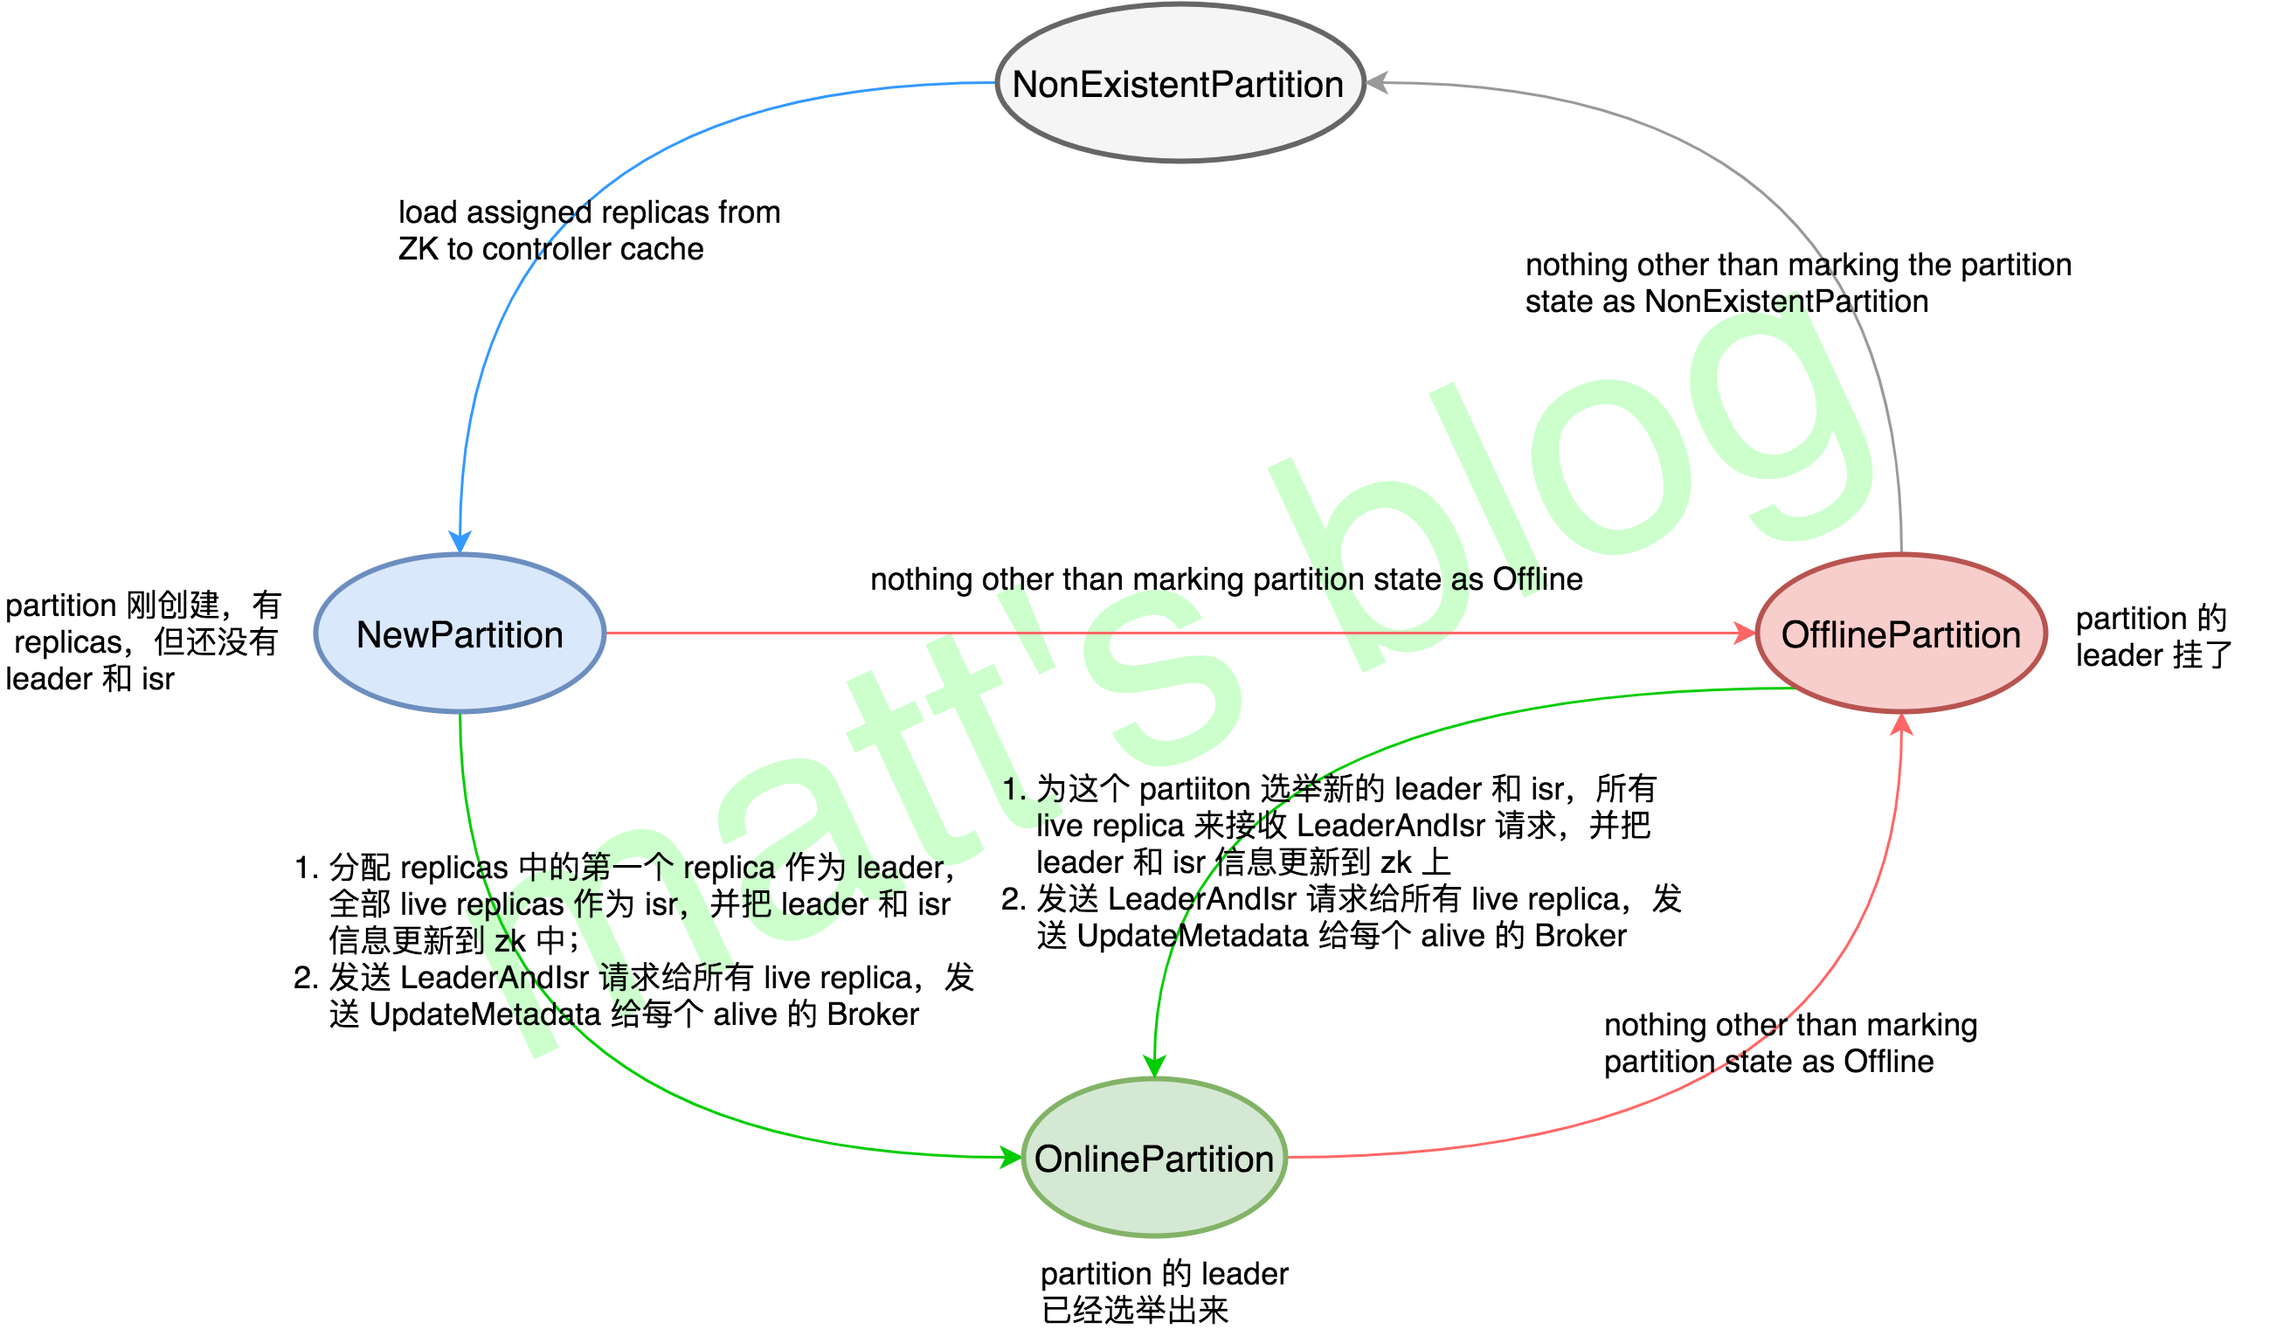
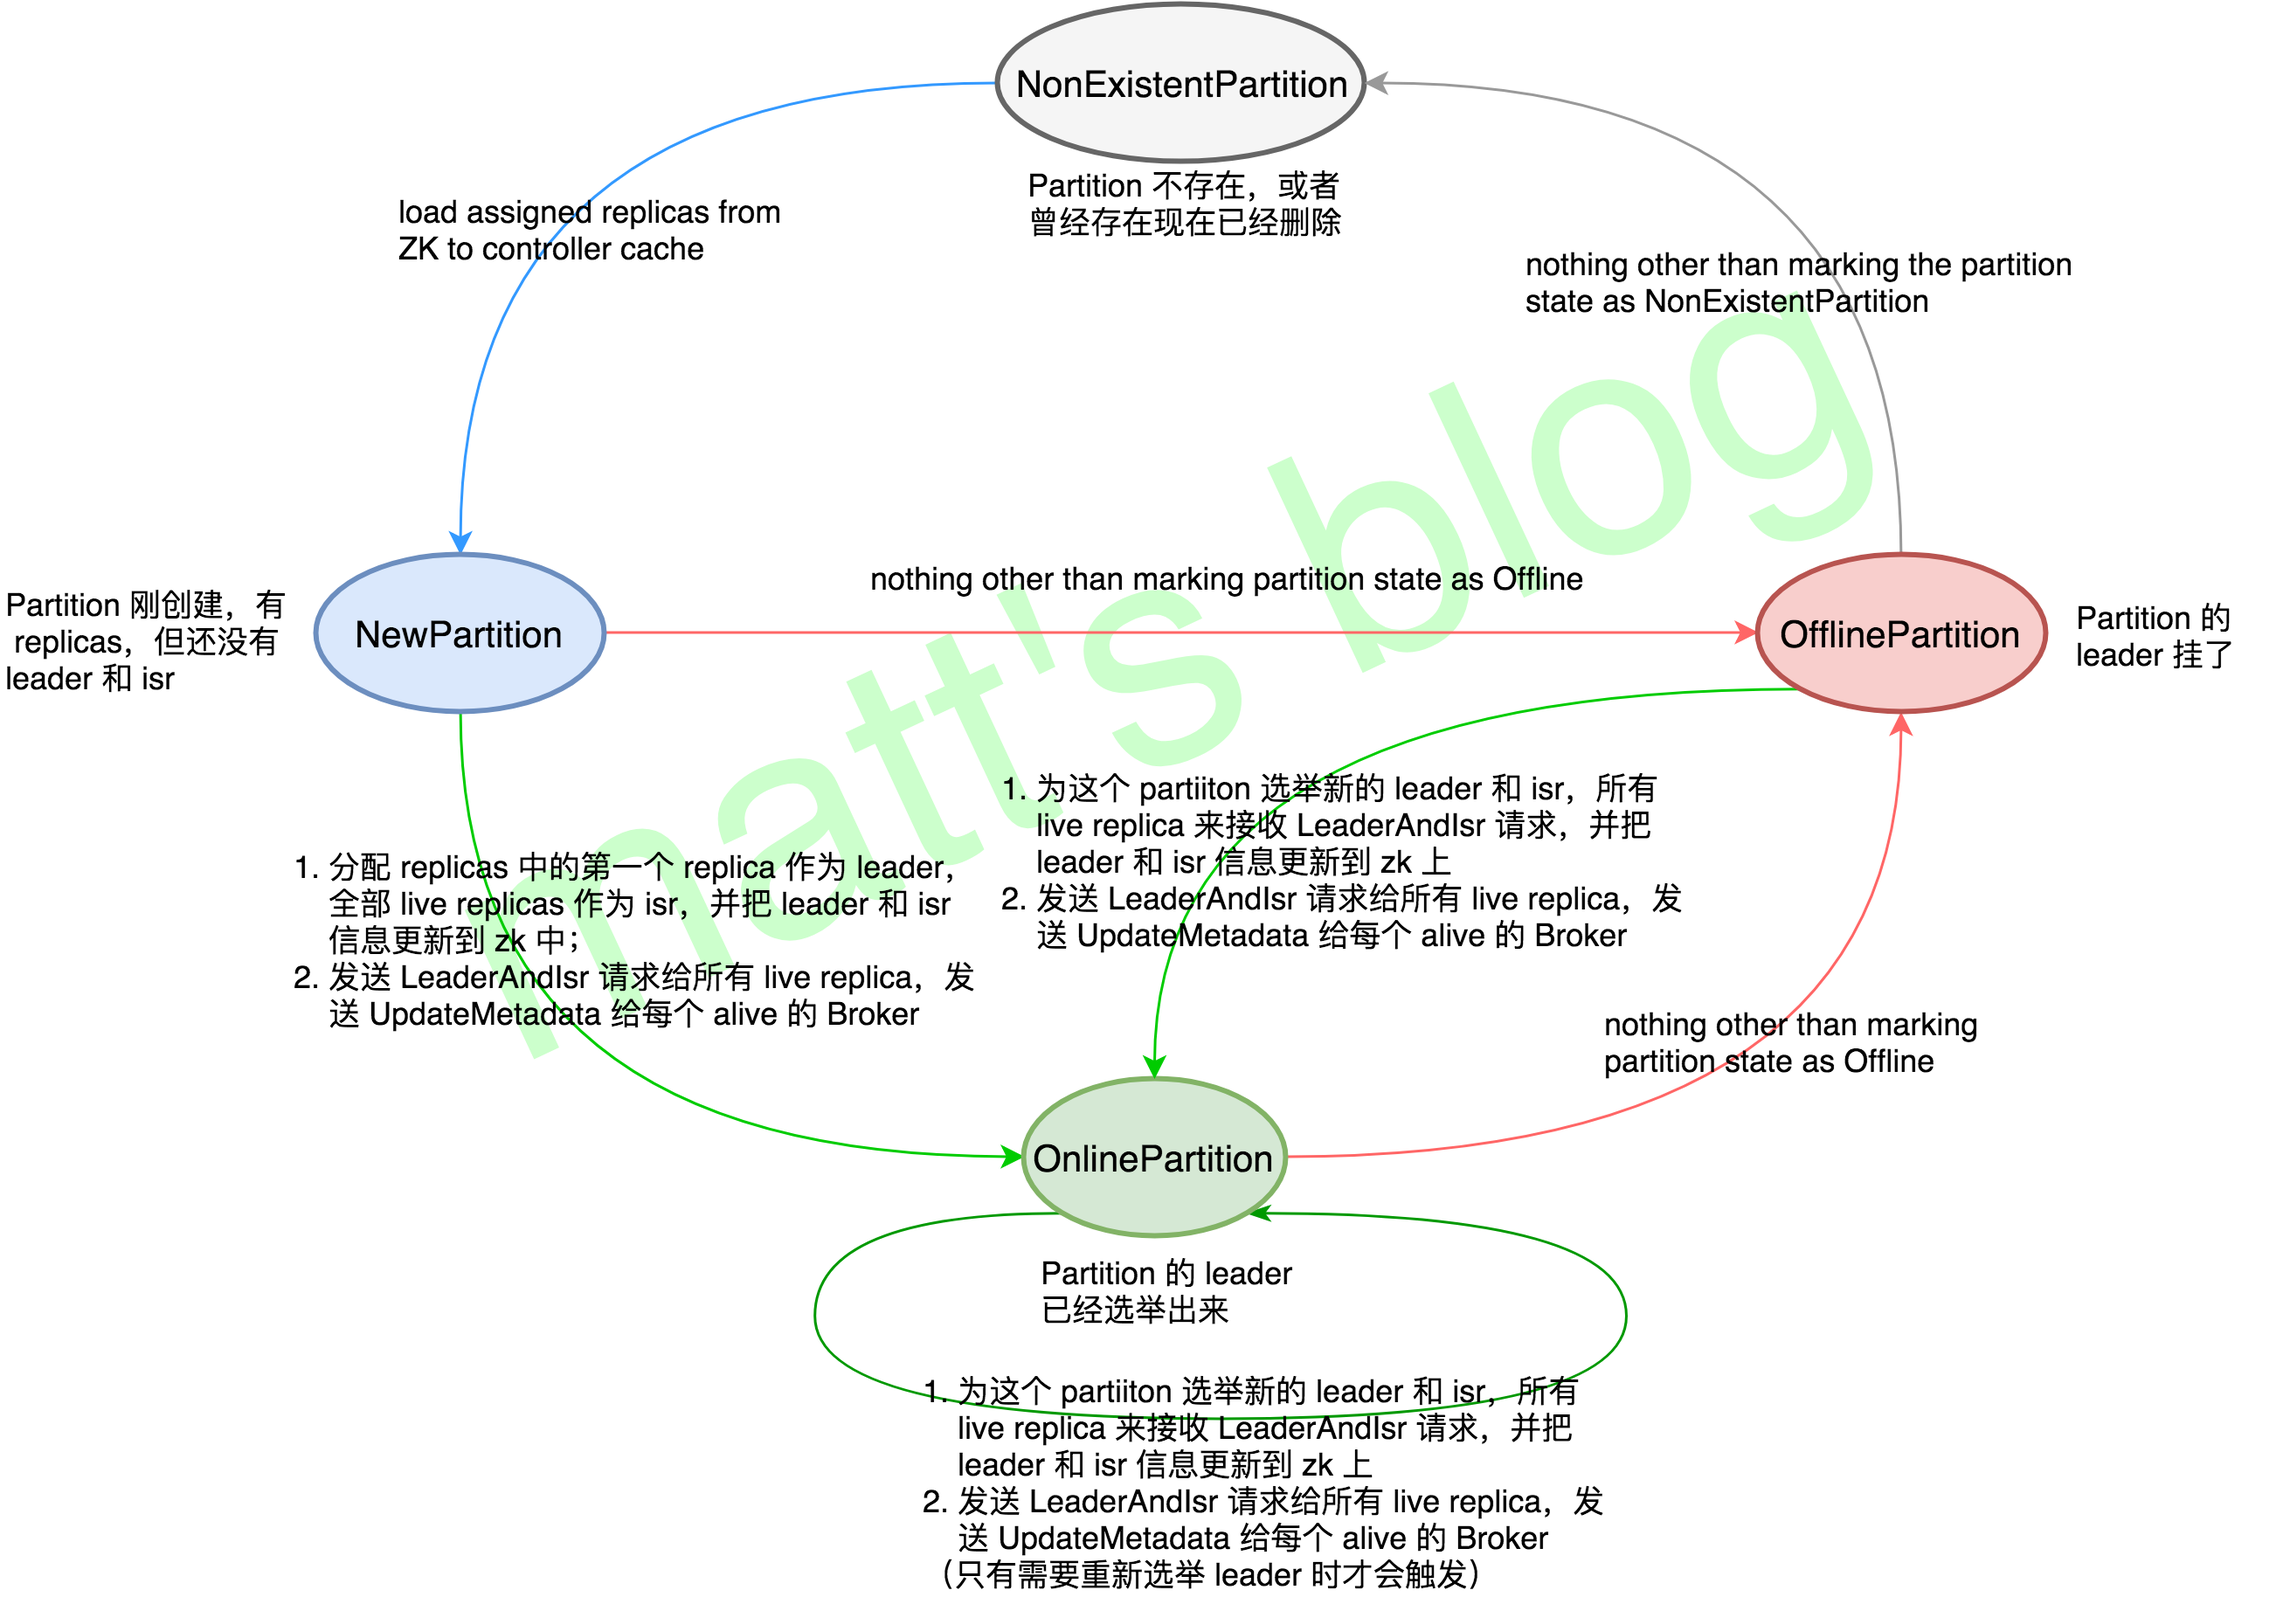
subject line
modify the picture

[ticket: X]

diff --git a/2017/07/21/kafka-topic-create/index.html b/2017/07/21/kafka-topic-create/index.html
@@ -132,7 +132,7 @@
 <figure class="highlight scala"><table><tr><td class="gutter"><pre><div class="line">1</div><div class="line">2</div><div class="line">3</div><div class="line">4</div><div class="line">5</div><div class="line">6</div><div class="line">7</div><div class="line">8</div><div class="line">9</div><div class="line">10</div><div class="line">11</div><div class="line">12</div><div class="line">13</div><div class="line">14</div><div class="line">15</div><div class="line">16</div><div class="line">17</div><div class="line">18</div><div class="line">19</div><div class="line">20</div><div class="line">21</div><div class="line">22</div><div class="line">23</div><div class="line">24</div><div class="line">25</div></pre></td><td class="code"><pre><div class="line"><span class="comment">//note: 当 partition state machine 监控到有新 topic 或 partition 时,这个方法将会被调用</span></div><div class="line"> <span class="comment">/**</span></div><div class="line">   * 1. 注册 partition change listener;</div><div class="line">   * 2. 触发 the new partition callback,也即是 onNewPartitionCreation()</div><div class="line">   * 3. 发送 metadata 请求给所有的 Broker</div><div class="line">   * @param topics</div><div class="line">   * @param newPartitions</div><div class="line">   */</div><div class="line"> <span class="function"><span class="keyword">def</span> <span class="title">onNewTopicCreation</span></span>(topics: <span class="type">Set</span>[<span class="type">String</span>], newPartitions: <span class="type">Set</span>[<span class="type">TopicAndPartition</span>]) &#123;</div><div class="line">   info(<span class="string">"New topic creation callback for %s"</span>.format(newPartitions.mkString(<span class="string">","</span>)))</div><div class="line">   <span class="comment">// subscribe to partition changes</span></div><div class="line">   topics.foreach(topic =&gt; partitionStateMachine.registerPartitionChangeListener(topic))</div><div class="line">   onNewPartitionCreation(newPartitions)</div><div class="line"> &#125;</div><div class="line"></div><div class="line"> <span class="comment">//note: topic 变化时,这个方法将会被调用</span></div><div class="line"> <span class="comment">//note: 1. 将新创建的 partition 置为 NewPartition 状态; 2.从 NewPartition 改为 OnlinePartition 状态</span></div><div class="line"> <span class="comment">//note: 1. 将新创建的 Replica 置为 NewReplica 状态; 2.从 NewReplica 改为 OnlineReplica 状态</span></div><div class="line"> <span class="function"><span class="keyword">def</span> <span class="title">onNewPartitionCreation</span></span>(newPartitions: <span class="type">Set</span>[<span class="type">TopicAndPartition</span>]) &#123;</div><div class="line">   info(<span class="string">"New partition creation callback for %s"</span>.format(newPartitions.mkString(<span class="string">","</span>)))</div><div class="line">   partitionStateMachine.handleStateChanges(newPartitions, <span class="type">NewPartition</span>)</div><div class="line">   replicaStateMachine.handleStateChanges(controllerContext.replicasForPartition(newPartitions), <span class="type">NewReplica</span>)</div><div class="line">   partitionStateMachine.handleStateChanges(newPartitions, <span class="type">OnlinePartition</span>, offlinePartitionSelector)</div><div class="line">   replicaStateMachine.handleStateChanges(controllerContext.replicasForPartition(newPartitions), <span class="type">OnlineReplica</span>)</div><div class="line"> &#125;</div></pre></td></tr></table></figure>
 <p>在详细介绍这四个方法的调用之前，先简单详述一下 Partition 和 Replica 状态机的变化。</p>
 <h3 id="Partition-状态机"><a href="#Partition-状态机" class="headerlink" title="Partition 状态机"></a>Partition 状态机</h3><p>关于 Partition 状态的变化可以参考 Kafka 中的这个方法 <a href="https://github.com/apache/kafka/blob/0.10.2/core/src/main/scala/kafka/controller/PartitionStateMachine.scala" target="_blank" rel="external">PartitionStateMachine</a>，状态机的具体转换情况如下图所示</p>
-<p><img src="/images/kafka/partition_stat.png" alt="Partition 状态机"></p>
+<p><img src="/images/kafka/partition_state.png" alt="Partition 状态机"></p>
 <p>一个 Partition 对象有四种状态：</p>
 <ol>
 <li><code>NonExistentPartition</code>：这个 partition 不存在；</li>
@@ -142,7 +142,7 @@
 </ol>
 <p>partition 只有在 <code>OnlinePartition</code> 这个状态时，才是可用状态。</p>
 <h3 id="Replica-状态机"><a href="#Replica-状态机" class="headerlink" title="Replica 状态机"></a>Replica 状态机</h3><p>关于 Replica 状态的变化可以参考 Kafka 中的这个方法 <a href="https://github.com/apache/kafka/blob/0.10.2/core/src/main/scala/kafka/controller/ReplicaStateMachine.scala" target="_blank" rel="external">ReplicaStateMachine</a>，，状态机的具体转换情况如下图所示</p>
-<p><img src="/images/kafka/replica_stat.png" alt="Replica 状态机"></p>
+<p><img src="/images/kafka/replica_state.png" alt="Replica 状态机"></p>
 <p>Replica 对象有七种状态，中文解释的比较难以理解，直接上原文对这几种状态的解释。</p>
 <ol>
 <li><code>NewReplica</code>：The controller can create new replicas during partition reassignment. In this state, a replica can only get become follower state change request.</li>
